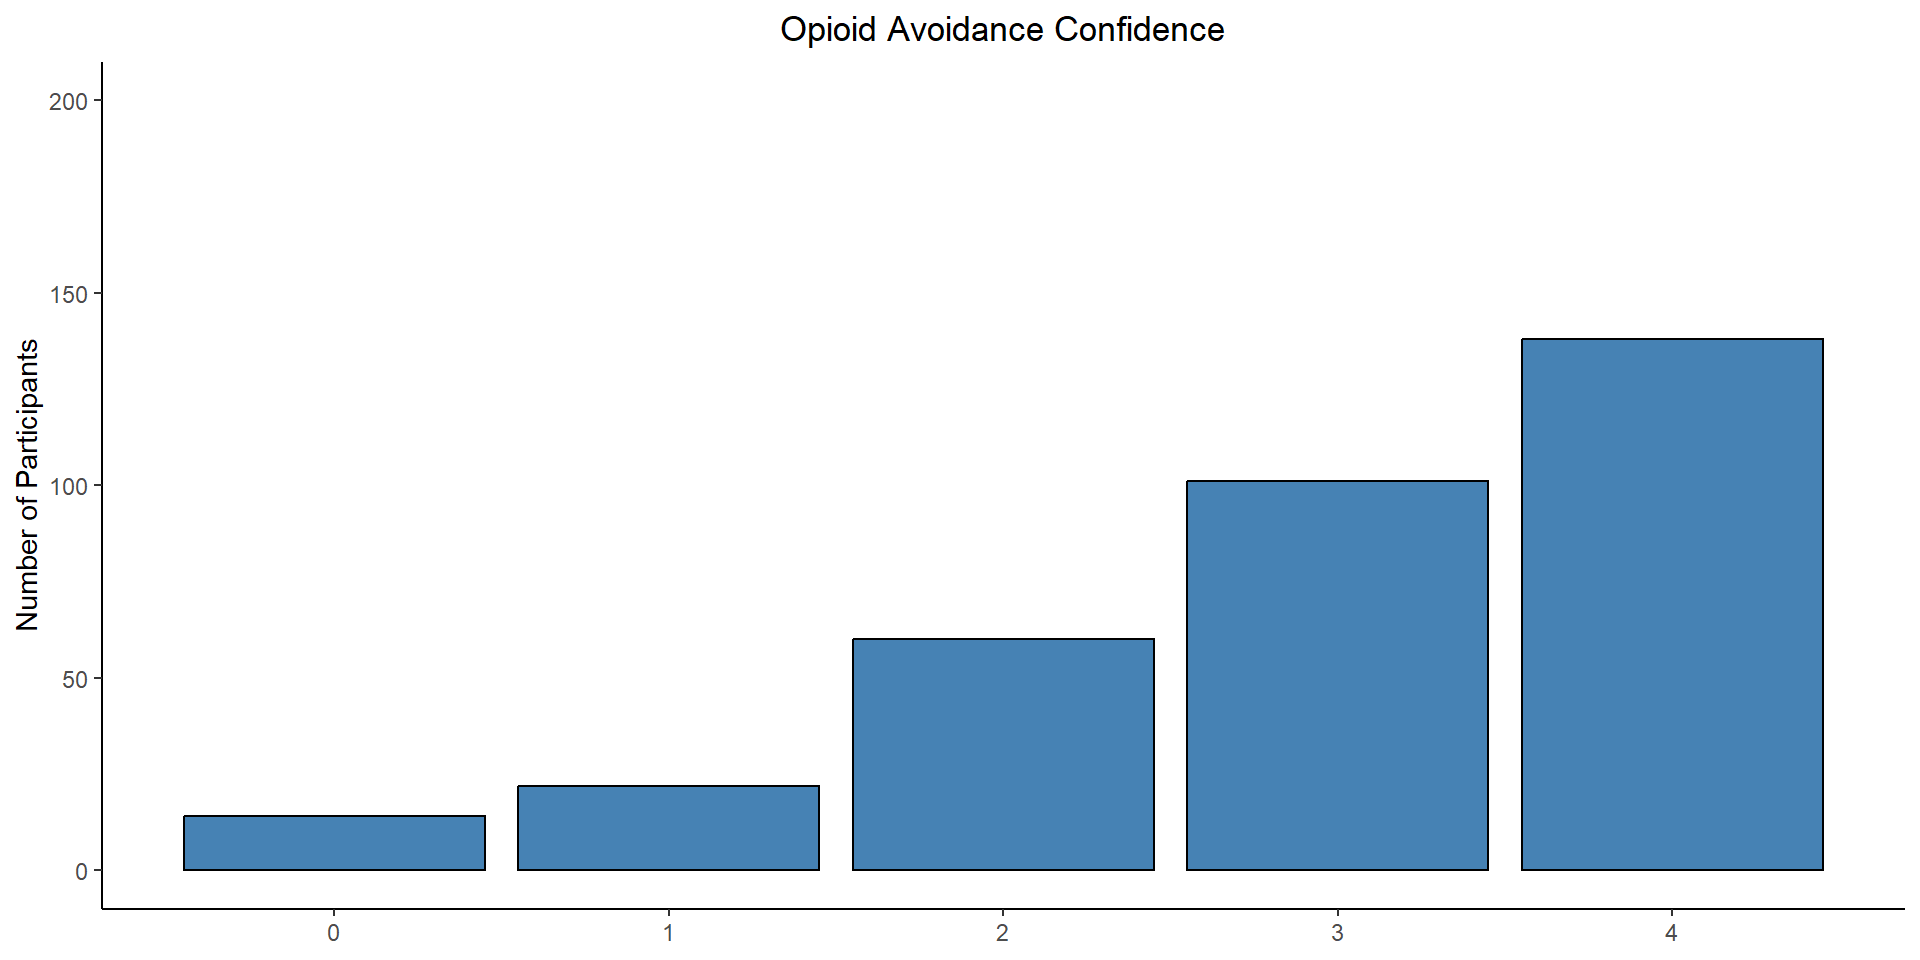
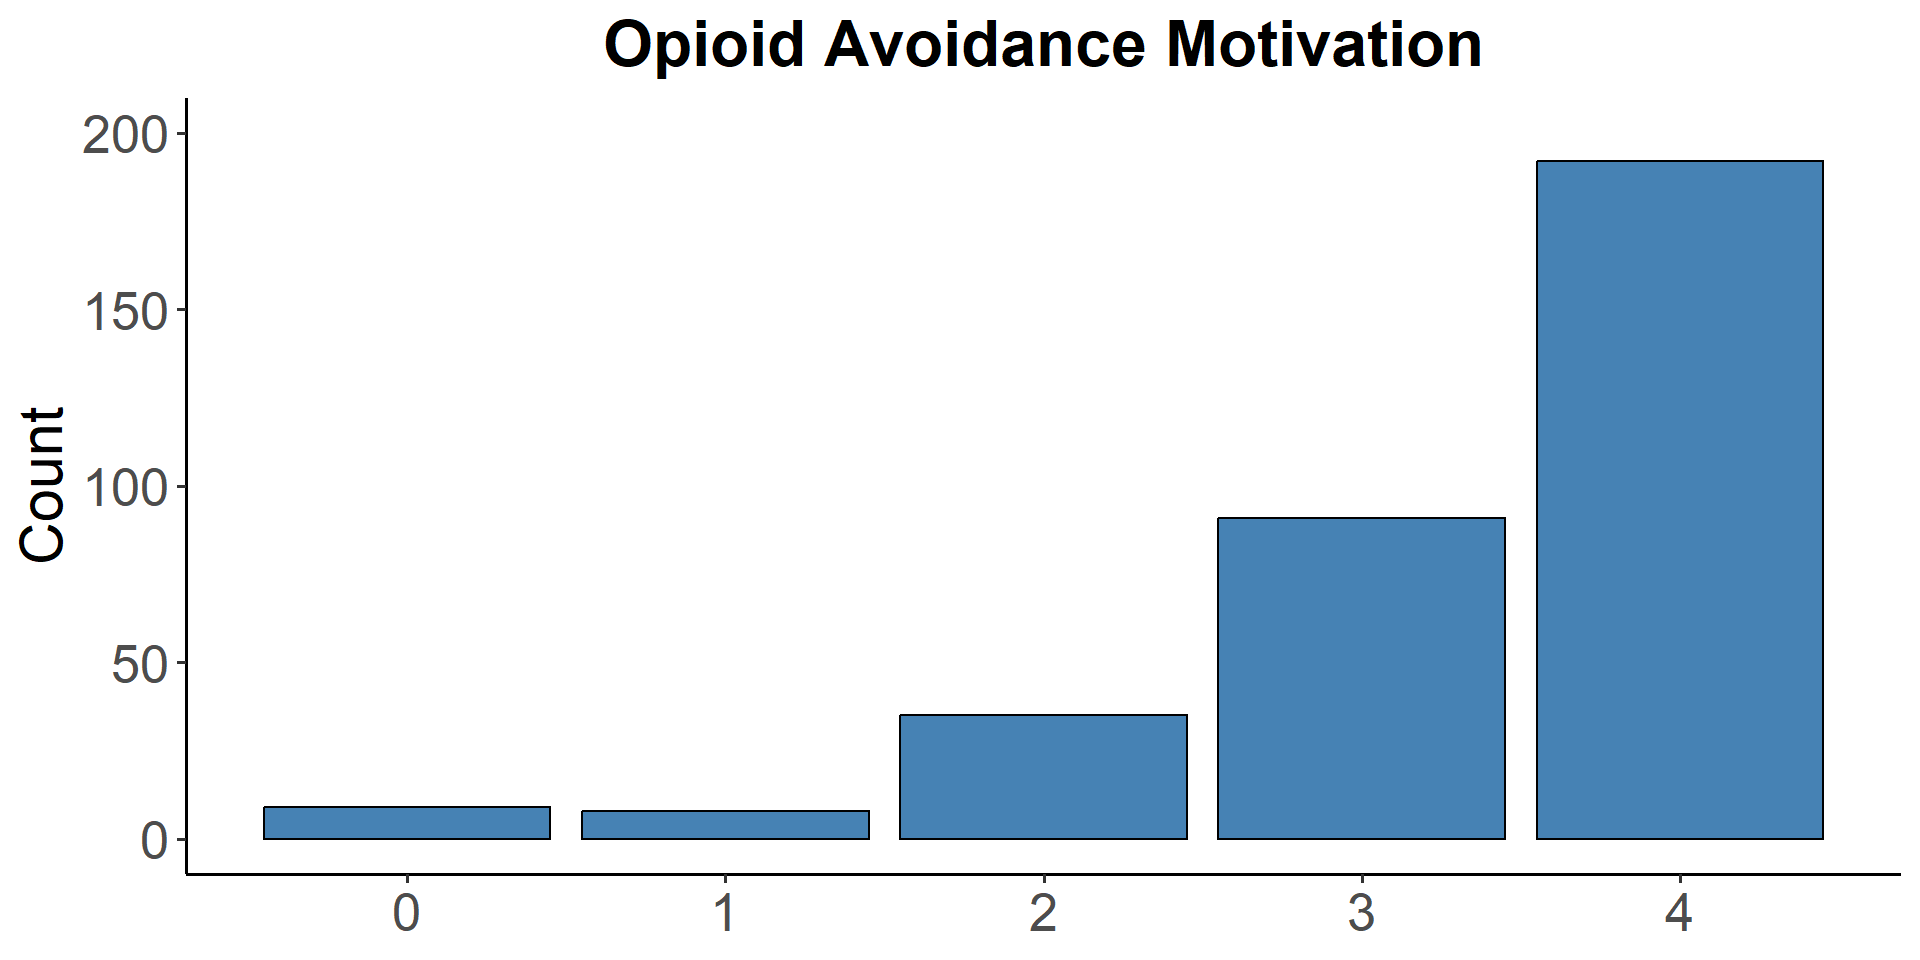
adapt slides according to Madison

diff --git a/zihan/zihan_capstone.html b/zihan/zihan_capstone.html
@@ -344,19 +344,19 @@ Zihan Li
 
   <p class="date">2024-12-13</p>
 </section>
-<section class="slide level2">
-
-
-<img data-src="zihan_capstone_files/figure-revealjs/unnamed-chunk-3-1.png" width="960" class="r-stretch"></section>
 <section id="oud-characteristics" class="slide level2">
 <h2><span style="color: green; text-decoration: underline;">OUD Characteristics</span></h2>
 <div class="columns">
-<div class="column" style="width:50%;">
+<div class="column" style="width:45%;">
 <ul>
-<li><p>336 individuals mostly showed severe OUD symptoms.</p></li>
-<li><p>Committed to abstinence throughout study</p></li>
+<li>336 individuals mostly showed severe OUD symptoms.</li>
 </ul>
-</div><div class="column" style="width:50%;">
+<p><br>
+</p>
+<ul>
+<li>Motivated to abstinence throughout study</li>
+</ul>
+</div><div class="column" style="width:55%;">
 <div class="cell">
 <div class="cell-output-display">
 <div>
@@ -372,33 +372,31 @@ Zihan Li
 </figure>
 </div>
 </div>
-<div class="cell-output-display">
-<div>
-<figure>
-<p><img data-src="zihan_capstone_files/figure-revealjs/unnamed-chunk-4-3.png" width="960"></p>
-</figure>
-</div>
-</div>
 </div>
 </div>
 </div>
 </section>
 <section id="oud-characteristics-1" class="slide level2">
 <h2><span style="color: green; text-decoration: underline;">OUD Characteristics</span></h2>
+<aside class="notes">
 <ul>
 <li>Low income, moderate education</li>
 <li>Balanced gender, mostly middle-aged</li>
 <li>Majority Asian and White</li>
 </ul>
+<style type="text/css">
+        span.MJX_Assistive_MathML {
+          position:absolute!important;
+          clip: rect(1px, 1px, 1px, 1px);
+          padding: 1px 0 0 0!important;
+          border: 0!important;
+          height: 1px!important;
+          width: 1px!important;
+          overflow: hidden!important;
+          display:block!important;
+      }</style></aside>
 
-<img data-src="zihan_capstone_files/figure-revealjs/unnamed-chunk-5-1.png" width="960" class="r-stretch"></section>
-<section id="social-context-and-abstinence-attitude" class="slide level2">
-<h2><span style="color: green; text-decoration: underline;">Social Context and Abstinence Attitude</span></h2>
-<ul>
-<li>A majority of participants have some form of social support</li>
-<li>Most participants show strong intention to avoid substance use</li>
-</ul>
-<div class="quarto-auto-generated-content">
+<img data-src="zihan_capstone_files/figure-revealjs/unnamed-chunk-5-1.png" width="960" class="r-stretch"><div class="quarto-auto-generated-content">
 <div class="footer footer-default">
 
 </div>
